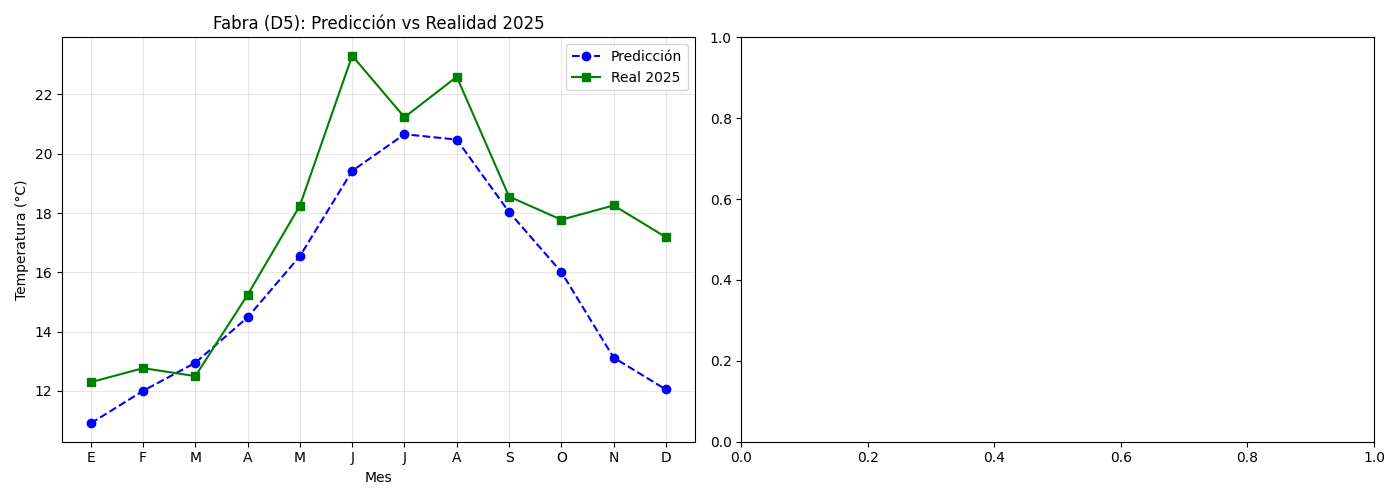
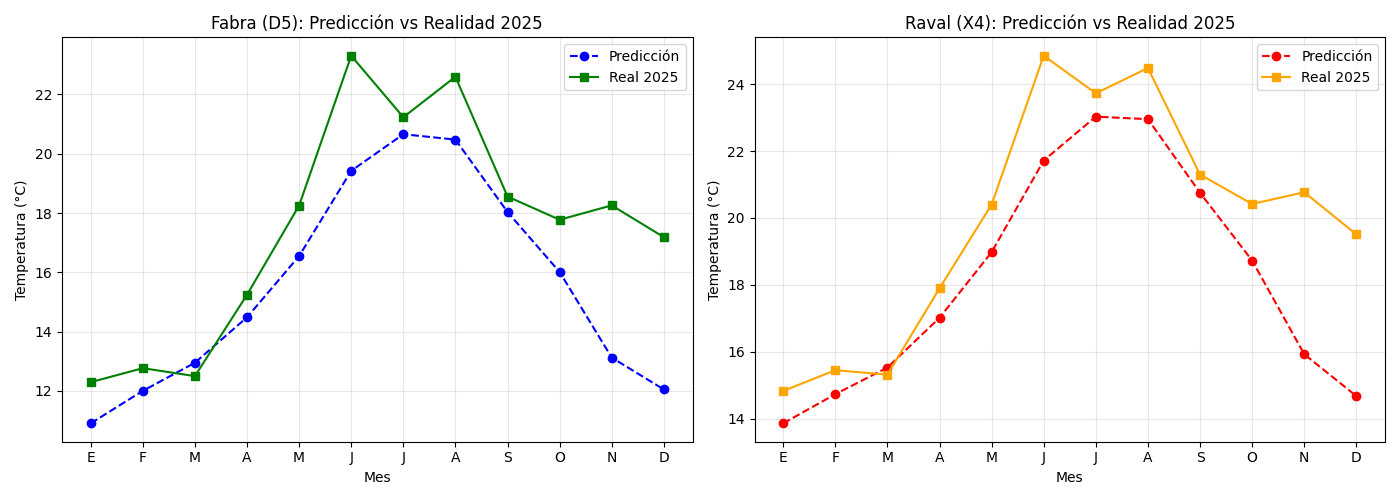
Añadir X4 Raval a la grafica 1

diff --git a/src/ej2_predic_temp.py b/src/ej2_predic_temp.py
@@ -54,6 +54,19 @@ eje1.set_xticklabels(['E', 'F', 'M', 'A', 'M', 'J', 'J', 'A', 'S', 'O', 'N', 'D'
 eje1.legend()
 eje1.grid(True, alpha=0.3)
 
+# X4 Raval
+eje2.plot(meses, prediccion_x4, 'r--o', label='Predicción')
+if not real_2025_x4.empty:
+    mensual_real_x4 = real_2025_x4.resample('ME').mean()
+    eje2.plot(mensual_real_x4.index.month, mensual_real_x4.values, 'orange', marker='s', linestyle='-', label='Real 2025')
+eje2.set_title('Raval (X4): Predicción vs Realidad 2025')
+eje2.set_xlabel('Mes')
+eje2.set_ylabel('Temperatura (°C)')
+eje2.set_xticks(meses)
+eje2.set_xticklabels(['E', 'F', 'M', 'A', 'M', 'J', 'J', 'A', 'S', 'O', 'N', 'D'])
+eje2.legend()
+eje2.grid(True, alpha=0.3)
+
 plt.tight_layout()
 plt.savefig(os.path.join(DIRECTORIO_SALIDA, 'ej2_prediccion_vs_real.png'))
 plt.close()
